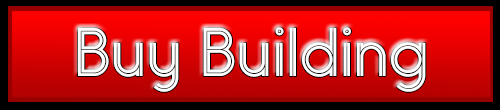
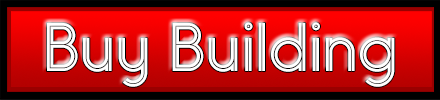
ImageButtons and better Winning Screen

diff --git a/core/src/se2/groupb/monopoly/CreateGameField.java b/core/src/se2/groupb/monopoly/CreateGameField.java
@@ -7,16 +7,27 @@ import com.badlogic.gdx.graphics.Color;
 import com.badlogic.gdx.graphics.GL20;
 import com.badlogic.gdx.graphics.OrthographicCamera;
 import com.badlogic.gdx.graphics.Texture;
+import com.badlogic.gdx.graphics.g2d.Batch;
 import com.badlogic.gdx.graphics.g2d.BitmapFont;
 import com.badlogic.gdx.graphics.g2d.SpriteBatch;
+import com.badlogic.gdx.graphics.g2d.TextureRegion;
 import com.badlogic.gdx.graphics.g3d.Environment;
 import com.badlogic.gdx.graphics.g3d.Model;
 import com.badlogic.gdx.graphics.g3d.ModelBatch;
 import com.badlogic.gdx.graphics.g3d.ModelInstance;
 import com.badlogic.gdx.graphics.g3d.attributes.ColorAttribute;
 import com.badlogic.gdx.math.Vector3;
+import com.badlogic.gdx.scenes.scene2d.Actor;
+import com.badlogic.gdx.scenes.scene2d.Event;
+import com.badlogic.gdx.scenes.scene2d.EventListener;
+import com.badlogic.gdx.scenes.scene2d.InputEvent;
+import com.badlogic.gdx.scenes.scene2d.Stage;
 import com.badlogic.gdx.scenes.scene2d.ui.ImageButton;
+import com.badlogic.gdx.scenes.scene2d.utils.ClickListener;
+import com.badlogic.gdx.scenes.scene2d.utils.Drawable;
+import com.badlogic.gdx.scenes.scene2d.utils.TextureRegionDrawable;
 import com.badlogic.gdx.utils.ScreenUtils;
+import com.badlogic.gdx.utils.viewport.ScreenViewport;
 
 import java.util.ArrayList;
 import java.util.Arrays;
@@ -37,12 +48,12 @@ public class CreateGameField extends ScreenAdapter {
     private BitmapFont moneyfont;
     private Property[] logicalGameField;
 
-    /*private Stage stage;
+    private Stage stage;
     private Texture myTexture;
     private TextureRegion myTextureRegion;
     private TextureRegionDrawable myTextureRegionDrawable;
     private ImageButton testbutton;
-    private ImageButton testbutton2;*/
+    private ImageButton testbutton2;
 
 
     private Field[] fields = new Field[40];
@@ -191,7 +202,16 @@ public class CreateGameField extends ScreenAdapter {
         environment.set(new ColorAttribute(ColorAttribute.AmbientLight, 1f, 1f, 1f, 1f));
 
         modelBatch = new ModelBatch();
+        TextureRegion textureBuy = new TextureRegion(BuyButton,0, 0, 10, 10);
+        //textureBuy.setRegion(0, Gdx.graphics.getHeight() - 400, (buttonSizeX/2)-50, buttonSizeY / 2);
+        TextureRegionDrawable textureRegionBuy = new TextureRegionDrawable(textureBuy);
+        ImageButton imgbutton = new ImageButton(textureRegionBuy);
 
+
+
+        stage = new Stage(new ScreenViewport());
+        stage.addActor(imgbutton);
+        Gdx.input.setInputProcessor(stage);
 
         camera = new OrthographicCamera(100, 100);
         camera.rotate(90);
@@ -234,7 +254,15 @@ public class CreateGameField extends ScreenAdapter {
         moneyfont = new BitmapFont();
         //testbutton = new ImageButton()
 
-        ScreenUtils.clear(0, 0, 0, 1);
+
+        /*imgbutton.addListener(new ClickListener() {
+            @Override
+            public void clicked(InputEvent event, float x, float y) {
+                super.clicked(event, x, y);
+            }
+        });*/
+
+                ScreenUtils.clear(0, 0, 0, 1);
         // cameraController.update();
 
         // Clear the stuff that is left over from the previous render cycle
@@ -277,18 +305,23 @@ public class CreateGameField extends ScreenAdapter {
         renderModels();
         drawDice(dice1, dice2);
 
+        /**
+         * Fonts for the Accounts of players
+         */
         moneyfont.setColor(Color.WHITE);
         moneyfont.getData().setScale(4, 4);
         moneyfont.draw(spriteBatch, player1.getName() + ": " + player1.getBankBalance(), 0, Gdx.graphics.getHeight() - 100);
         moneyfont.draw(spriteBatch, player2.getName() + ": " + player2.getBankBalance(), 0, Gdx.graphics.getHeight() - 150);
         moneyfont.draw(spriteBatch, player3.getName() + ": " + player3.getBankBalance(), 0, Gdx.graphics.getHeight() - 200);
         moneyfont.draw(spriteBatch, player4.getName() + ": " + player4.getBankBalance(), 0, Gdx.graphics.getHeight() - 250);
-        moneyfont.draw(spriteBatch, screenOutput, (Gdx.graphics.getWidth()/2)-100, yPosInitialButtons + 250);
+        moneyfont.draw(spriteBatch, screenOutput, (float) (Gdx.graphics.getWidth()/3.75), yPosInitialButtons + 250);
         moneyfont.draw(spriteBatch, "Pot: " + pot, 0, Gdx.graphics.getHeight() - 400);
 
 
-
-        spriteBatch.draw(BuyButton, Gdx.graphics.getWidth() - Gdx.graphics.getWidth(), Gdx.graphics.getHeight() - 400, buttonSizeX / 2, buttonSizeY / 2);
+        /**
+         * Buy-Button and his method for buying buildings
+         */
+        spriteBatch.draw(BuyButton, Gdx.graphics.getWidth() - Gdx.graphics.getWidth(), Gdx.graphics.getHeight() - 400, (buttonSizeX/2)-50, buttonSizeY / 2);
         if (isCorrectPosition(userPosX, userPosY, Gdx.graphics.getWidth() - Gdx.graphics.getWidth(), Gdx.graphics.getHeight() - 400, buttonSizeX / 2, buttonSizeY / 2, 0 * yPosOffsetButtons)
                 && Gdx.input.justTouched()) {
             int pos = getCurrentPlayer().getPosition();
@@ -361,11 +394,17 @@ public class CreateGameField extends ScreenAdapter {
 
         spriteBatch.end();
         modelBatch.end();
+
+        stage.draw();
     }
 
     @Override
     public void dispose() {
         modelBatch.dispose();
+        spriteBatch.dispose();
+        moneyfont.dispose();
+        stage.dispose();
+
 //        ml1.dispose();
 //        ml2.dispose();
         disposeModels();
@@ -470,6 +509,9 @@ public class CreateGameField extends ScreenAdapter {
         spriteBatch.draw(d2, xPosButtons, yPosInitialButtons - 400, 500, 500);
     }
 
+    /**
+     * Method for output of the field on the Screen
+     */
     private void checkCurrentProperty(){
         int playerPosition = getCurrentPlayer().getPosition();
         String propertyType = getPropertyType(playerPosition);
@@ -511,6 +553,11 @@ public class CreateGameField extends ScreenAdapter {
         return playerName + " befindet sich bei " + playerPosition;
     }
 
+    /**
+     * Method for controll of special fields as well as their methods
+     * @param property to be controlled
+     * @return additional Output text for the screen for special fields
+     */
     private String checkSoleProperty(Property property){
         String output = "Spieler " + getCurrentPlayer().getName();
         switch (property.getName()){
@@ -541,6 +588,9 @@ public class CreateGameField extends ScreenAdapter {
         return output;
     }
 
+    /**
+     * method for the prison
+     */
     private void checkPrison(){
         int playerPosition = getCurrentPlayer().getPosition();
         if(playerPosition == 30){
@@ -691,7 +741,9 @@ public class CreateGameField extends ScreenAdapter {
         }
     }
 
-    //Letzter Methodenaufruf vor Spielende
+    /**
+     * Winning Condition which changes to the final Screen of the game
+     */
     public void winning(){
         int amount = 0;
 
@@ -743,6 +795,7 @@ public class CreateGameField extends ScreenAdapter {
 
         monopoly.setScreen(new WinningScreen(monopoly));
     }
+
     public CreateGameField(){
 
     }

diff --git a/core/src/se2/groupb/monopoly/screens/WinningScreen.java b/core/src/se2/groupb/monopoly/screens/WinningScreen.java
@@ -1,11 +1,15 @@
 package se2.groupb.monopoly.screens;
 
 import com.badlogic.gdx.Gdx;
+import com.badlogic.gdx.graphics.Color;
 import com.badlogic.gdx.graphics.GL20;
 import com.badlogic.gdx.graphics.Texture;
 import com.badlogic.gdx.graphics.g2d.BitmapFont;
 import com.badlogic.gdx.graphics.g2d.GlyphLayout;
 import com.badlogic.gdx.graphics.g2d.SpriteBatch;
+import com.badlogic.gdx.graphics.g3d.Environment;
+import com.badlogic.gdx.graphics.g3d.attributes.ColorAttribute;
+import com.badlogic.gdx.utils.ScreenUtils;
 
 import se2.groupb.monopoly.CreateGameField;
 import se2.groupb.monopoly.Monopoly;
@@ -14,21 +18,28 @@ public class WinningScreen extends GameScreenAdapter{
 
     private BitmapFont font;
     private GlyphLayout waitingText;
+    private Environment environment;
 
 
     CreateGameField createGameField = new CreateGameField();
 
     SpriteBatch spriteBatch;
 
-    private String text = "Hallo";
-    private String first = "Sieger: " + createGameField.placement[0] + " with:" + createGameField.sums[0];
+    private String text = "Und die Sieger sind:";
+    /*private String first = "Sieger: " + createGameField.placement[0] + " with:" + createGameField.sums[0];
     private String second = "Zweiter: " + createGameField.placement[1] + " with:" + createGameField.sums[1];
     private String third = "Dritter: " + createGameField.placement[2] + " with:" + createGameField.sums[2];
-    private String fourth = "Vierter: " + createGameField.placement[3] + " with:" + createGameField.sums[3];
+    private String fourth = "Vierter: " + createGameField.placement[3] + " with:" + createGameField.sums[3];*/
+    private String first = "Sieger: Player 1 with: 2000$";
+    private String second = "Zweiter: Player 2 with: 1800$";
+    private String third = "Dritter: Player 3 with: 1600$";
+    private String fourth = "Vierter: Player 4 with: 100$";
 
 
     public WinningScreen(Monopoly monopoly) {
         super(monopoly);
+        environment = new Environment();
+        environment.set(new ColorAttribute(ColorAttribute.AmbientLight, 1f, 1f, 1f, 1f));
     }
 
     @Override
@@ -41,12 +52,13 @@ public class WinningScreen extends GameScreenAdapter{
 
         font = new BitmapFont();
         spriteBatch = new SpriteBatch();
-        font.getData().setScale(3.5f);
+        font.getData().setScale(7f);
         waitingText = new GlyphLayout(font, text);
     }
 
     @Override
     public void render(float delta) {
+        ScreenUtils.clear(0, 0, 0, 1);
         Gdx.gl.glClearColor(1, 1, 1, 1);
         Gdx.gl.glClear(GL20.GL_COLOR_BUFFER_BIT);
         float userPosX = (float) Gdx.input.getX();
@@ -54,13 +66,12 @@ public class WinningScreen extends GameScreenAdapter{
         monopoly.batch.begin();
         spriteBatch.begin();
 
-        font.draw(spriteBatch, text, Gdx.graphics.getHeight()/2,Gdx.graphics.getWidth()/2);
-        font.draw(spriteBatch, text, Gdx.graphics.getHeight()/2,Gdx.graphics.getWidth()+50);
-        font.draw(spriteBatch, text, Gdx.graphics.getHeight()/2,Gdx.graphics.getWidth()+75);
-        /*font.draw(spriteBatch, first, Gdx.graphics.getHeight()/2,Gdx.graphics.getWidth()+50);
-        font.draw(spriteBatch, second, Gdx.graphics.getHeight()/2,Gdx.graphics.getWidth()+75);
-        font.draw(spriteBatch, third, Gdx.graphics.getHeight()/2,Gdx.graphics.getWidth()+100);
-        font.draw(spriteBatch, fourth, Gdx.graphics.getHeight()/2,Gdx.graphics.getWidth()+125);*/
+        font.setColor(Color.BLACK);
+        font.draw(spriteBatch, text, (float) (Gdx.graphics.getWidth()/3.75),(Gdx.graphics.getHeight()/2)+250);
+        font.draw(spriteBatch, first, (float) (Gdx.graphics.getWidth()/3.75),(Gdx.graphics.getHeight()/2)+150);
+        font.draw(spriteBatch, second, (float) (Gdx.graphics.getWidth()/3.75), (Gdx.graphics.getHeight()/2)+50);
+        font.draw(spriteBatch, third, (float) (Gdx.graphics.getWidth()/3.75),(Gdx.graphics.getHeight()/2)-50);
+        font.draw(spriteBatch, fourth, (float) (Gdx.graphics.getWidth()/3.75), (Gdx.graphics.getHeight()/2)-150);
 
         spriteBatch.end();
         monopoly.batch.end();
@@ -88,7 +99,7 @@ public class WinningScreen extends GameScreenAdapter{
 
     @Override
     public void dispose() {
-
+        spriteBatch.dispose();
     }
 
     @Override

diff --git a/core/src/se2/groupb/monopoly/screens/MainMenuScreen.java b/core/src/se2/groupb/monopoly/screens/MainMenuScreen.java
@@ -4,6 +4,11 @@ import com.badlogic.gdx.Gdx;
 import com.badlogic.gdx.Input;
 import com.badlogic.gdx.graphics.GL20;
 import com.badlogic.gdx.graphics.Texture;
+import com.badlogic.gdx.graphics.g2d.TextureRegion;
+import com.badlogic.gdx.scenes.scene2d.Stage;
+import com.badlogic.gdx.scenes.scene2d.ui.ImageButton;
+import com.badlogic.gdx.scenes.scene2d.utils.TextureRegionDrawable;
+import com.badlogic.gdx.utils.viewport.ScreenViewport;
 
 
 import se2.groupb.monopoly.CreateGameField;
@@ -19,6 +24,11 @@ public class MainMenuScreen extends GameScreenAdapter {
     private Texture kartenButton;
     private Texture gameFieldButton;
     private Texture BuyButton;
+
+    private TextureRegion textureRegion;
+    private TextureRegionDrawable textureRegionDrawable;
+    private ImageButton imgButton;
+    private Stage stage;
 
     private int buttonSizeX;
     private int buttonSizeY;
@@ -44,6 +54,16 @@ public class MainMenuScreen extends GameScreenAdapter {
         sensorButton = new Texture("images/MenuButtons/switch_view.png");
         gameFieldButton=new Texture("images/MenuButtons/switch_view.png");
         BuyButton = new Texture("images/MenuButtons/switch_view.png");
+        Texture BuyButton2 = new Texture("images/MenuButtons/buy_building.png");
+
+        //textureRegion = new TextureRegion(BuyButton2, xPosButtons, yPosInitialButtons, buttonSizeX, buttonSizeY);
+        textureRegion = new TextureRegion(BuyButton2, 2000, 2000, 1000, 200);
+        textureRegion = new TextureRegion(BuyButton2);
+        textureRegionDrawable = new TextureRegionDrawable(textureRegion);
+        imgButton = new ImageButton(textureRegionDrawable);
+        stage = new Stage();
+        stage.addActor(imgButton);
+        Gdx.input.setInputProcessor(stage);
 
         buttonSizeX = Gdx.graphics.getWidth() / 3;
         buttonSizeY = (int) (Gdx.graphics.getHeight() / (4.545454 * 2));
@@ -152,7 +172,7 @@ public class MainMenuScreen extends GameScreenAdapter {
                 && (Gdx.input.isTouched() || Gdx.input.isButtonPressed(Input.Buttons.LEFT))) {
 
             this.dispose();
-            monopoly.setScreen(new MonopolyScreen(monopoly));
+            monopoly.setScreen(new WinningScreen(monopoly));
 
         }
 
@@ -170,6 +190,7 @@ public class MainMenuScreen extends GameScreenAdapter {
     }
 
         monopoly.batch.end();
+        stage.draw();
     }
 
     @Override
